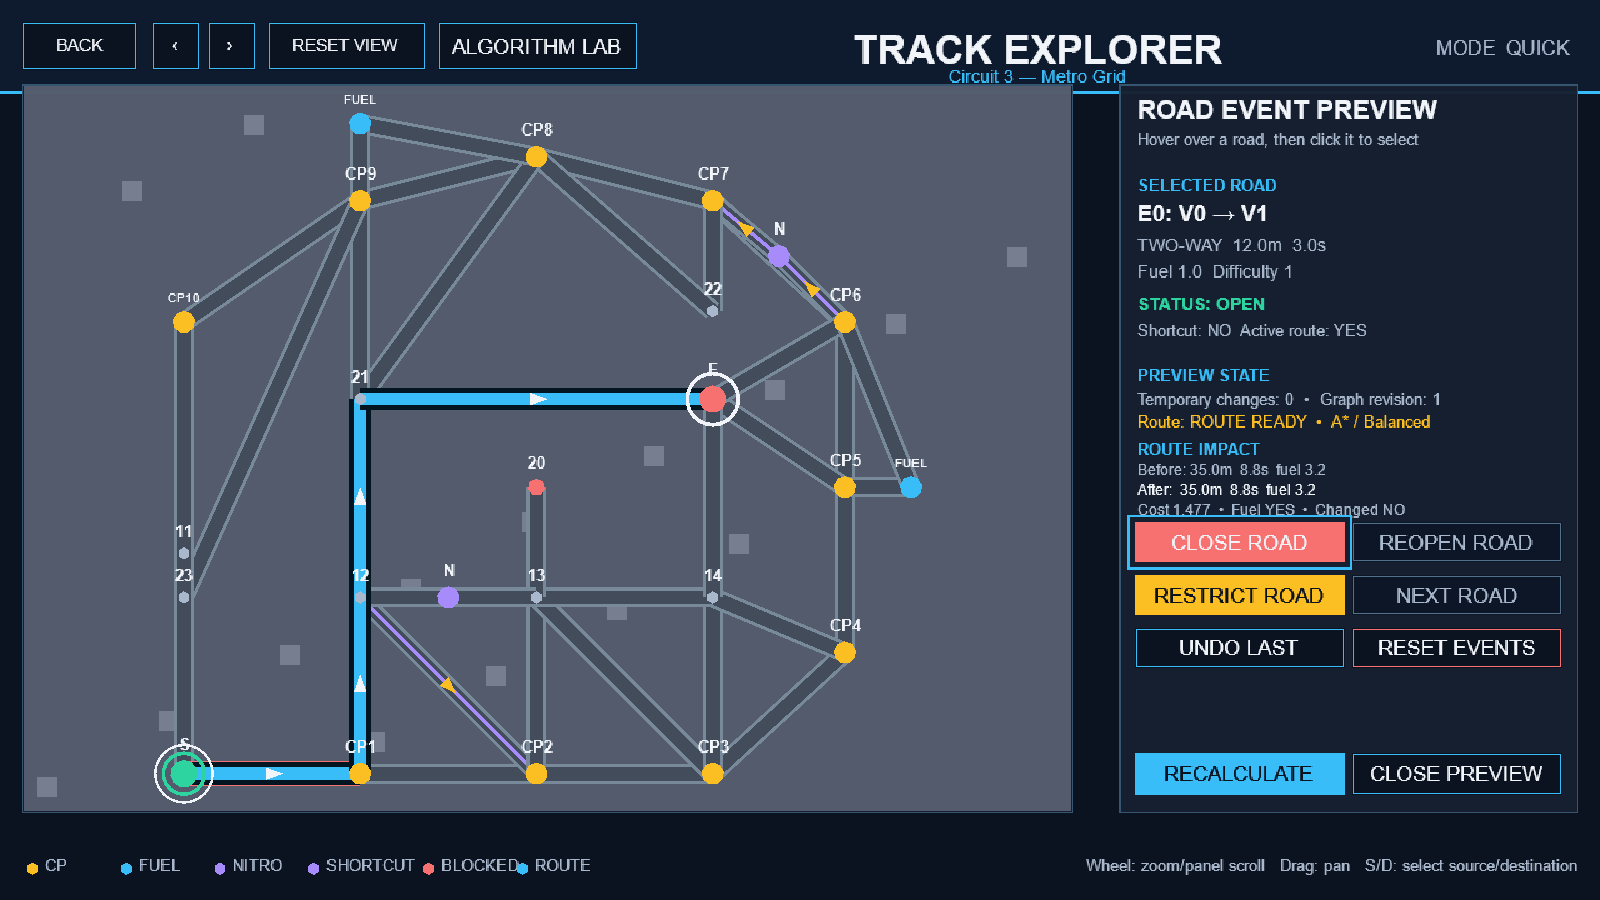
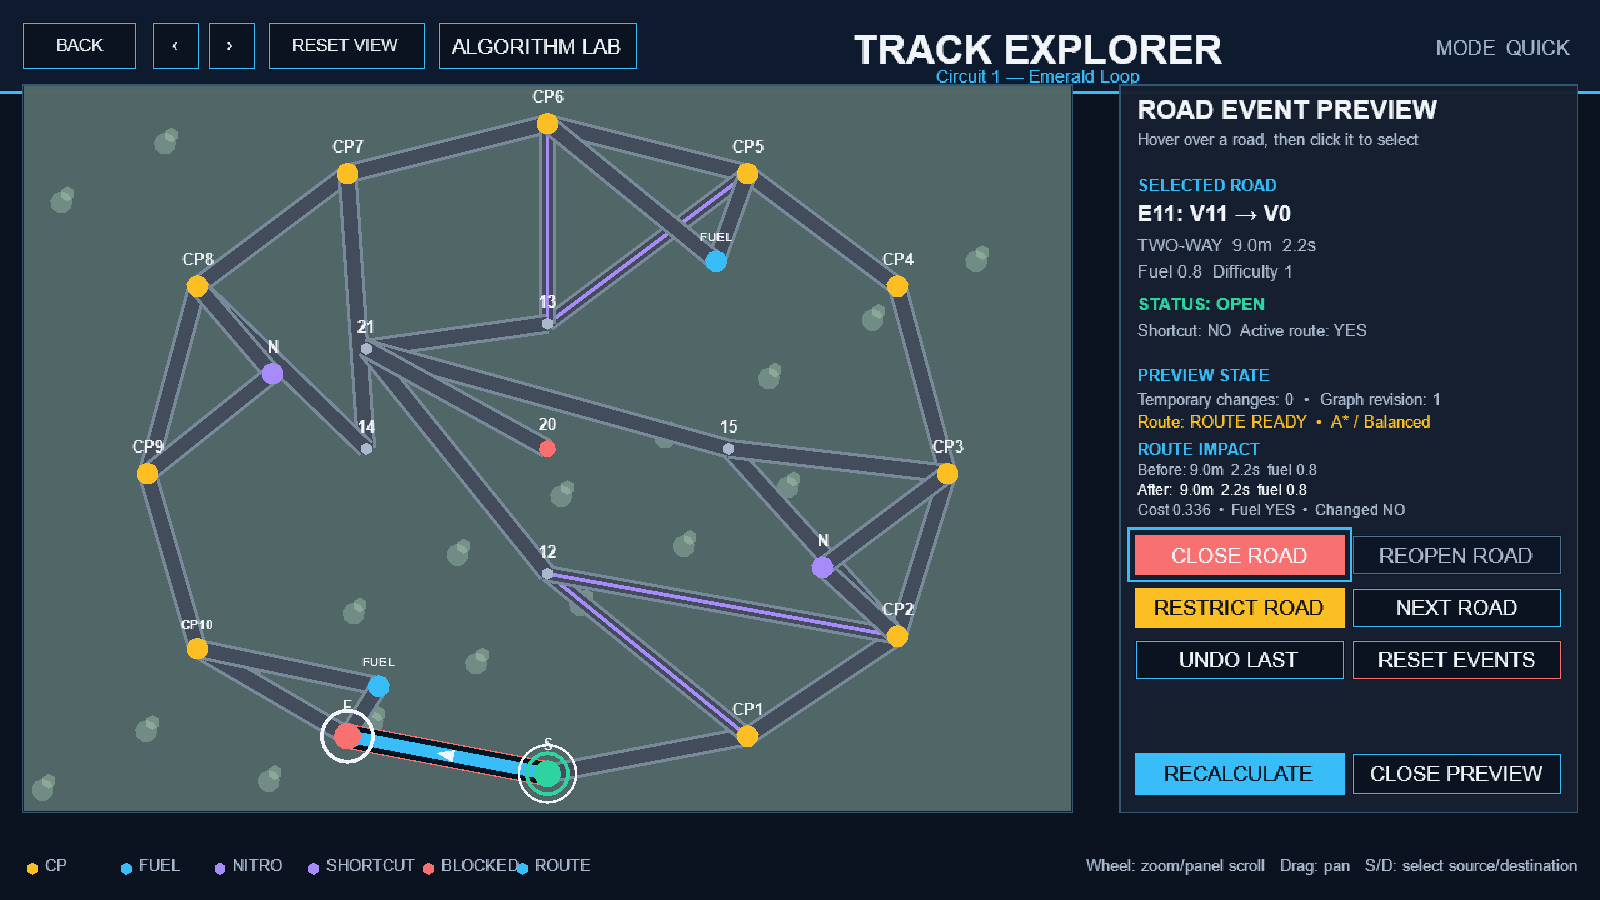
fix(track-explorer): cycle road selection by edge id

diff --git a/src/smart_racing/arcade_ui/app.py b/src/smart_racing/arcade_ui/app.py
@@ -885,7 +885,7 @@ class TrackExplorerView(ArcadeView):
         self.add_button("REOPEN ROAD", left + 18 + compact_width, row_one, compact_width, 32, lambda: self.apply_event(EdgeStatus.OPEN), fill, text, border)
         fill, text, border = button_colors(restrict_enabled, AMBER, NAVY, AMBER)
         self.add_button("RESTRICT ROAD", left + 12, row_two, compact_width, 32, lambda: self.apply_event(EdgeStatus.RESTRICTED), fill, text, border)
-        next_enabled = len(self.event_candidate_ids) > 1
+        next_enabled = len(self.graph.edges) > 1
         fill, text, border = button_colors(next_enabled, NAVY, WHITE, CYAN)
         self.add_button("NEXT ROAD", left + 18 + compact_width, row_two, compact_width, 32, self.cycle_event_edge, fill, text, border)
         self.add_button("UNDO LAST", left + 12, row_three, compact_width, 32, self.undo_event, NAVY, WHITE, CYAN)
@@ -1316,13 +1316,20 @@ class TrackExplorerView(ArcadeView):
         self.event_after_route = deepcopy(self.route_result)
 
     def cycle_event_edge(self) -> None:
-        if len(self.event_candidate_ids) < 2:
-            self.status_message = "No overlapping road candidates need disambiguation."
+        road_ids = sorted(self.graph.edges)
+        if not road_ids:
+            self.status_message = "No roads are available on this circuit."
             self.status_color = MUTED
             return
-        self.event_candidate_index = (self.event_candidate_index + 1) % len(self.event_candidate_ids)
-        self.event_edge_id = self.event_candidate_ids[self.event_candidate_index]
-        self.status_message = f"Selected road {self.event_edge_id}; use the event controls or cycle again."
+        if self.event_edge_id in road_ids:
+            current_index = road_ids.index(self.event_edge_id)
+            next_index = (current_index + 1) % len(road_ids)
+        else:
+            next_index = 0
+        self.event_edge_id = road_ids[next_index]
+        self.event_candidate_ids = [self.event_edge_id]
+        self.event_candidate_index = 0
+        self.status_message = f"Selected road E{self.event_edge_id}; NEXT ROAD follows edge ID order."
         self.status_color = CYAN
         self.rebuild_ui()
 

diff --git a/tests/unit/test_arcade_frontend.py b/tests/unit/test_arcade_frontend.py
@@ -252,6 +252,38 @@ def test_explorer_close_event_preview_restores_canonical_graph_and_route():
     assert view.event_history == []
 
 
+def test_explorer_next_road_cycles_all_circuit_edges_in_id_order_with_wraparound():
+    for track in load_tracks():
+        view = object.__new__(TrackExplorerView)
+        view.graph = deepcopy(track.graph())
+        view.event_edge_id = min(view.graph.edges)
+        view.event_candidate_ids = [view.event_edge_id]
+        view.event_candidate_index = 0
+        view.status_message = ""
+        view.status_color = None
+        view.zoom = 1.8
+        view.pan = [23.0, -17.0]
+        view.event_history = []
+        view.graph_revision = 7
+        view.route_result = {"path": [track.start_id, track.finish_id]}
+        view.rebuild_ui = lambda: None
+        original_statuses = {edge_id: edge.status for edge_id, edge in view.graph.edges.items()}
+
+        road_ids = sorted(view.graph.edges)
+        for expected_edge_id in road_ids[1:] + road_ids[:1]:
+            view.cycle_event_edge()
+            assert view.event_edge_id == expected_edge_id
+            assert view.event_candidate_ids == [expected_edge_id]
+            assert view.event_candidate_index == 0
+
+        assert {edge_id: edge.status for edge_id, edge in view.graph.edges.items()} == original_statuses
+        assert view.event_history == []
+        assert view.graph_revision == 7
+        assert view.route_result == {"path": [track.start_id, track.finish_id]}
+        assert view.zoom == 1.8
+        assert view.pan == [23.0, -17.0]
+
+
 def test_arcade_phase_views_expose_all_required_algorithm_families():
     assert len(CATALOG) == 12
     assert [name for name, *_ in CATALOG] == [

diff --git a/docs/REQUIREMENTS_TRACEABILITY.md b/docs/REQUIREMENTS_TRACEABILITY.md
@@ -42,12 +42,12 @@ Source priority: the supplied `Project.pdf` is authoritative; the implementation
 | Multi-objective bonus | PDF 8.2 | cost presets | Explorer | preset comparison | VERIFIED | four presets |
 | Live top-k bonus | PDF 8.3 | heap `nsmallest` top-k | Dashboard service | top-k test | VERIFIED | comparator equality |
 | Responsive UI evidence | Improvement prompt 8/19, Phase 1 prompt | `tools/visual_smoke.py`, `docs/screenshots/` | all screens | real Pygame render plus Arcade smoke at 1280x720, 1600x900, 1920x1080 | VERIFIED | Pygame screenshots; latest Arcade menu, settings, instructions, circuit selection, Explorer, Racing, Lab, and Dashboard frames inspected |
-| Required tests | PDF 9.1 | `tests/` | n/a | `python -m pytest -q` | VERIFIED | 46 passed |
+| Required tests | PDF 9.1 | `tests/` | n/a | `python -m pytest -q` | VERIFIED | 47 passed |
 | Technical report | PDF 9.2 | `build_report.py` | n/a | PDF render inspection | VERIFIED | 5-page report |
 | Submission package | PDF 9.3 | `build_submission.ps1` | n/a | archive manifest/open | VERIFIED | ZIP generated |
 | Explorer route configuration handoff | Improvement task | `GameSession.route_plan` → Racing destination | Explorer -> Racing | `test_route_configuration_transfers_from_explorer_to_race_session` + direct view smoke | VERIFIED | circuit, algorithm, preset, endpoints, path, edge IDs, metrics, fuel plan |
 | Live Explorer closure reroute | Improvement task | explorer live graph + route recalculation | Explorer | blocked-edge integration test | VERIFIED | closed route edge excluded |
-| Interactive road-event workspace | Road Event Preview fix prompt | `TrackExplorerView` split-screen event workspace and graph copy | Explorer -> Road Event Preview | `test_explorer_road_event_restriction_changes_cost_and_undo_restores`, `test_explorer_close_event_preview_restores_canonical_graph_and_route`, inspected 1280/1440/1600 captures | VERIFIED | clickable map edge selection, hover/candidate cycling, close/reopen/restrict actions, weighted restriction effect, route impact, recalculate, undo, reset, close restore |
+| Interactive road-event workspace | Road Event Preview fix prompt | `TrackExplorerView` split-screen event workspace and graph copy | Explorer -> Road Event Preview | `test_explorer_road_event_restriction_changes_cost_and_undo_restores`, `test_explorer_close_event_preview_restores_canonical_graph_and_route`, `test_explorer_next_road_cycles_all_circuit_edges_in_id_order_with_wraparound`, direct three-circuit callback smoke, inspected 1280/1440/1600 captures | VERIFIED | clickable map edge selection, hover/candidate cycling, edge-ID ordered NEXT ROAD with wraparound, close/reopen/restrict actions, weighted restriction effect, route impact, recalculate, undo, reset, close restore |
 | Explorer geometry safety | Track Explorer improvement prompt | `services/geometry_validator.py`, authoritative circuit JSON | Explorer map load | `python -m pytest -q`, `run_validation.py` | VERIFIED | duplicate coordinates and zero-length geometry fail validation; non-connected crossings are surfaced as warnings; all three circuits pass |
 | Explorer button/state audit | Track Explorer improvement prompt | `TrackExplorerView` callbacks and `GameSession.explorer_*` context | Explorer controls/modals | `docs/TRACK_EXPLORER_BUTTON_AUDIT.md` plus modal screenshots | VERIFIED | every visible control has a callback, stale-route invalidation, or documented intentional guard |
 

diff --git a/docs/TRACK_EXPLORER_BUTTON_AUDIT.md b/docs/TRACK_EXPLORER_BUTTON_AUDIT.md
@@ -22,6 +22,7 @@ This audit covers the functional-overhaul branch. Each control is wired to a rea
 | CLOSE / REOPEN / RESTRICT ROAD | Mutates the selected edge status | No-op status changes are ignored; real mutations invalidate the prior route | `apply_event()` and blocked-edge/no-op tests |
 | UNDO LAST / RESET EVENTS | Restores prior or canonical edge statuses | Rebuilds route validity state | event history methods |
 | RECALCULATE | Replans after a road event | Uses the modified graph revision | `recalculate_from_event_modal()` |
+| NEXT ROAD | Selects the next authoritative graph edge | Uses sorted edge IDs with wraparound; never applies an event or changes graph/route state | `cycle_event_edge()` plus all-circuit zoom/pan smoke |
 | REVIEW / START RACE | Validates the current plan and opens review | Free mode, stale route, invalid graph, wrong endpoint, and infeasible fuel are rejected | `start_race()` |
 | ACCEPT PLAN | Stores the reviewed resource decision | Required before race confirmation when resources are not yet accepted | resource modal screenshot |
 | EDIT PLAN | Closes confirmation without starting | Preserves Explorer state | start confirmation screenshot |
@@ -31,4 +32,4 @@ This audit covers the functional-overhaul branch. Each control is wired to a rea
 
 - Base states: `docs/screenshots/arcade_explorer_overhaul_1280.png`, `arcade_explorer_overhaul_1600.png`, `arcade_explorer_overhaul_1920.png`.
 - Modal states: `arcade_explorer_compare_1280.png`, `arcade_explorer_compare_1600.png`, `arcade_explorer_compare_1920.png`, `arcade_explorer_resources_1280.png`, and `arcade_explorer_start_confirm_1280.png`.
-- Split-screen event states: `arcade_explorer_events_1280.png`, `arcade_explorer_events_1440.png`, and `arcade_explorer_events_1600.png`.
+- Split-screen event states: `arcade_explorer_events_1280.png`, `arcade_explorer_events_next_1280.png`, `arcade_explorer_events_1440.png`, and `arcade_explorer_events_1600.png`.

diff --git a/docs/PROGRESS.md b/docs/PROGRESS.md
@@ -30,7 +30,7 @@ Status: `COMPLETE` for the expanded gameplay/UI and release gates in the current
 - Race engine now uses `GameConfig.fixed_timestep = 1/60` and caches a route during edge traversal.
 - Race engine now accepts deterministic player throttle, brake, junction-exit, refuel, and nitro requests without allowing invalid graph edges.
 - Track Explorer now supports selectable start/destination vertices, checkpoint-aware planning, weighted route arrows, map zoom/pan/hover, wrapped descriptions, algorithm complexity/counters, exact physical metrics, fuel DP, nitro DP/Greedy recommendations, four-preset comparison, and live closure rerouting.
-- Existing algorithm, race, event, sorting, UI, championship, player-control, nitro, route-planner, track-validation, AI fuel, Explorer integration, geometry, comparison-card, road-event-preview, and Arcade session tests are green (46 passed).
+- Existing algorithm, race, event, sorting, UI, championship, player-control, nitro, route-planner, track-validation, AI fuel, Explorer integration, geometry, comparison-card, road-event-preview, NEXT ROAD, and Arcade session tests are green (47 passed).
 - Pygame visual smoke renders all five screens at 1440x900 and 1280x720 plus one Explorer screenshot for each redesigned circuit; the racing screen now shows layered roads, procedural cars, themed scenery, gates, services, pickups, camera follow, minimap, gauges, standings, and event state.
 - All three circuits complete full deterministic races and a full championship after the redesign.
 - Experiments and technical report were regenerated after the gameplay/UI changes.

diff --git a/docs/OVERNIGHT_PROGRESS.md b/docs/OVERNIGHT_PROGRESS.md
@@ -62,3 +62,10 @@ This ledger records evidence-backed work for the Smart Racing Championship final
 - Added regression coverage for restriction cost changes, undo restoration, and restoration of the canonical graph/route when the preview closes.
 - Visual verification: regenerated and inspected `docs/screenshots/arcade_explorer_events_1280.png`, `arcade_explorer_events_1440.png`, and `arcade_explorer_events_1600.png`; corrected compact-panel text/button spacing at 1280×720 and wider layouts.
 - Regression: `python -m pytest -q` → 46 passed; `python -m ruff check .` → passed.
+
+## 2026-11-21 — NEXT ROAD edge-order fix
+
+- Fixed `NEXT ROAD`: the previous callback only cycled the overlapping-road candidate list, which normally contained one selected edge and made the control appear inactive.
+- The control now advances through the authoritative sorted graph edge IDs (`E0 → E1 → E2 …`) with wraparound, updates the selected-road highlight/details, and preserves graph revision, event history, route, zoom, and pan without applying an event.
+- Verification: direct Arcade callback smoke passed on `circuit_01`, `circuit_02`, and `circuit_03` with zoom/pan enabled; `docs/screenshots/arcade_explorer_events_next_1280.png` shows the post-click E12 selection.
+- Regression: `python -m pytest -q` → 47 passed; `python -m ruff check .` → passed.

diff --git a/docs/TEST_MATRIX.md b/docs/TEST_MATRIX.md
@@ -9,7 +9,7 @@ The project uses deterministic tests plus real Arcade/Pygame smoke captures. A f
 | Closures and rerouting | `tests/integration/test_ui_smoke.py`, race tests | Explorer blocked-edge capture | Pass |
 | Fuel and nitro | `tests/unit/test_route_planner.py`, `tests/integration/test_race.py` | Racing HUD capture | Pass |
 | Main Menu | `tests/unit/test_arcade_frontend.py` | Arcade 1280/1600/1920 captures | Pass |
-| Track Explorer | route/session, geometry, comparison-card, road-event, and Explorer integration tests | `arcade_explorer_overhaul_1280.png`, `_1600.png`, `_1920.png`, `arcade_explorer_events_1280.png`, `_1440.png`, `_1600.png`, responsive comparison/resources/start-confirmation captures | Pass |
+| Track Explorer | route/session, geometry, comparison-card, road-event, NEXT ROAD, and Explorer integration tests | `arcade_explorer_overhaul_1280.png`, `_1600.png`, `_1920.png`, `arcade_explorer_events_1280.png`, `arcade_explorer_events_next_1280.png`, `_1440.png`, `_1600.png`, responsive comparison/resources/start-confirmation captures | Pass |
 | Racing Screen | race replay/control/sprint tests | `arcade_race_1280.png` | Pass |
 | Algorithm Lab | catalog/session tests and algorithm unit suite | `arcade_lab_1280.png` | Pass |
 | Championship Dashboard | scoring/championship tests | `arcade_dashboard_1280.png` | Pass |
